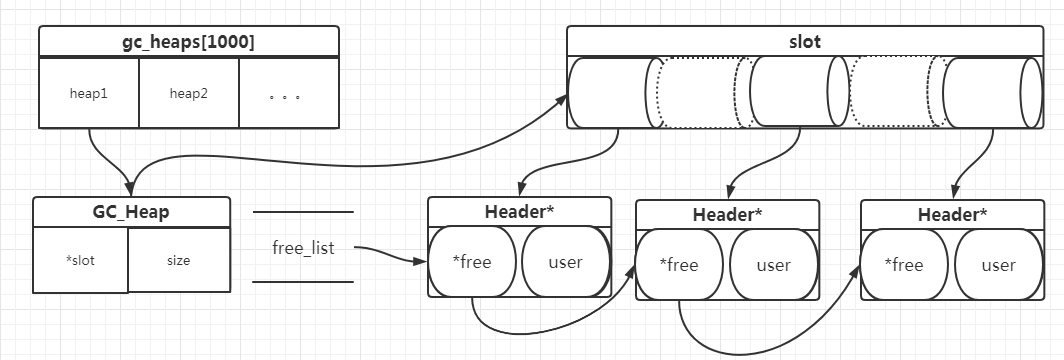
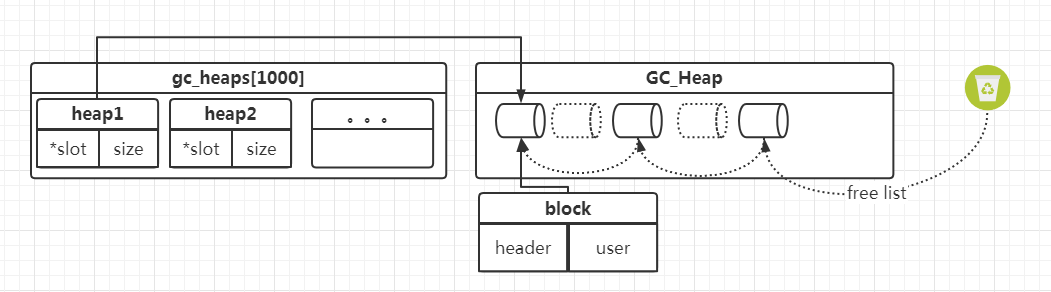
update doc

diff --git a/source/_posts/blog/gc-learning/GC算法分析与实现.md b/source/_posts/blog/gc-learning/GC算法分析与实现.md
@@ -4,6 +4,7 @@ toc: true
 date: 2020-11-09 21:28:59
 tags: [algorithm,gc,c]
 ---
+github: https://github.com/brewlin/gc-learning
 
 本系列文章主要阅读`垃圾回收的算法与实现`一书进行的实现解说，主要因为之前没有完整的gc算法实现的代码样例，书中各种实现都是基于伪码讲解，虽能理解作者的意思但难免还是有些抽象
 

diff --git a/source/_posts/blog/gc-learning/算法实现/2.标记清除-多链表法.md b/source/_posts/blog/gc-learning/算法实现/2.标记清除-多链表法.md
@@ -47,7 +47,7 @@ test:
 ```
 
 关于多链表的结构
-![](/images/blog/gc-learning/XFSEZFKABL.png)
+![](/images/blog/gc-learning/mark-sweep-multi.png)
 
 
 下面讲一下和单链表的标记清除法的区别，其他都一样，所以分析下关于分配和释放的区别
